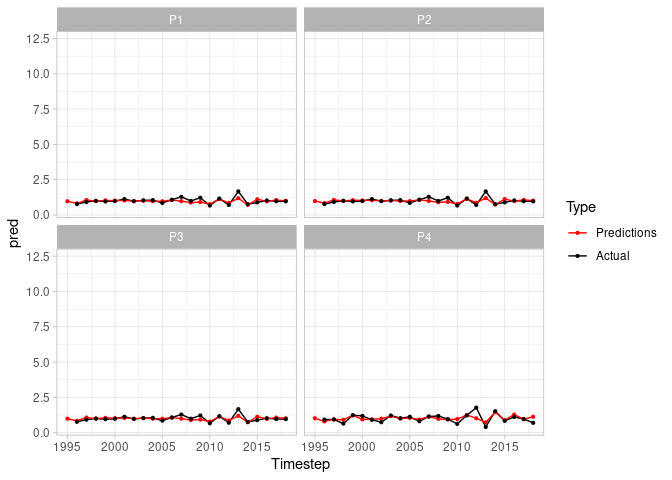
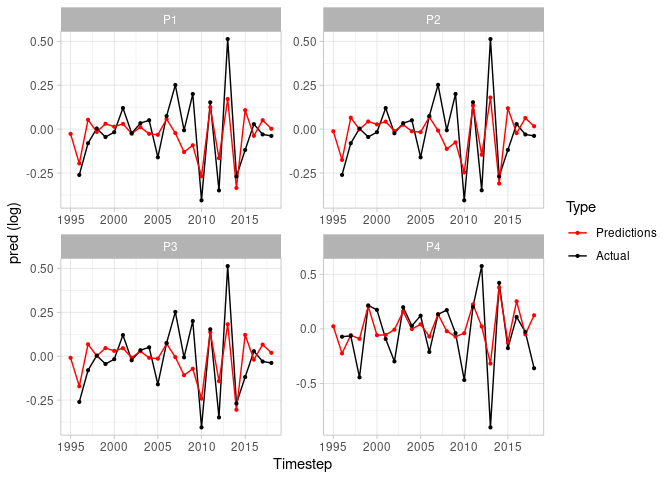
update eradme

diff --git a/README.md b/README.md
@@ -250,7 +250,7 @@ biomass_smooth <- biomass_dataset %>%
                smooth_space_time(k = c(NA, 30)),
              family=gaussian)
 #> ℹ  Fitting formula: weight_per_km2 ~ sfa + smooth_time(by = sfa) + smooth_space() + smooth_space_time(k = c(NA, 30)) for dataset 'borealis'
-#> !  Response variable temp_at_bottom is NOT a biomass density variable
+#> ℹ  Note:  response variable temp_at_bottom is NOT a biomass density variable
 #> ℹ  Fitting formula: temp_at_bottom ~ smooth_time(by = sfa) + smooth_space() + smooth_space_time(k = c(NA, 30)) for dataset 'borealis'
 
 biomass_smooth
@@ -535,7 +535,7 @@ head(biomass_one_step)
 18. We can produce an array of plots, as timeseries or as spatial plots
 
 ``` r
-plot(sspm_model_fit)
+plot(sspm_model_fit, log = T, scales = 'free')
 #> Warning: Removed 1 row(s) containing missing values (geom_path).
 #> Warning: Removed 35 rows containing missing values (geom_point).
 ```
@@ -543,7 +543,7 @@ plot(sspm_model_fit)
 <img src="man/figures/README-unnamed-chunk-25-1.png" width="100%" />
 
 ``` r
-plot(sspm_model_fit, use_sf = TRUE)
+plot(sspm_model_fit, log = T, use_sf = TRUE)
 ```
 
 <img src="man/figures/README-unnamed-chunk-25-2.png" width="100%" />
